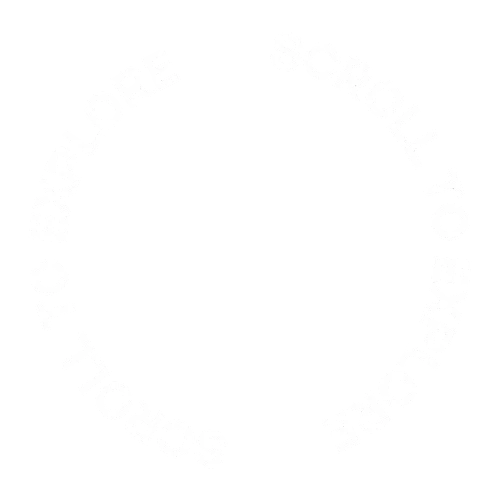
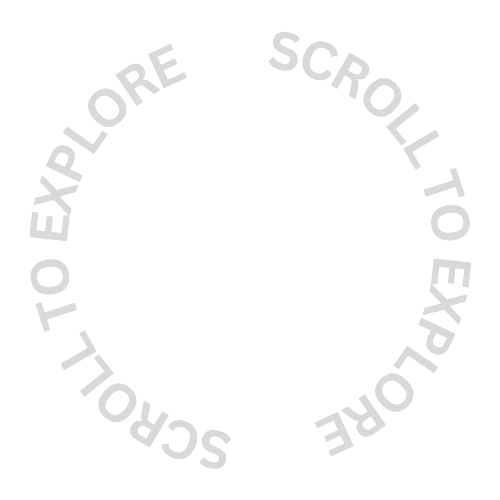
Theme toggle functionality added

diff --git a/my-portfolio/index.html b/my-portfolio/index.html
@@ -20,7 +20,7 @@
 
           <div class="logo-container">
             <a href="#about">
-              <img src="/images/logo.webp" alt="Logo name Vishal Verma" width="100%" height="auto">
+              <img id="logo-img" src="/images/logo.webp" alt="Logo name Vishal Verma" width="100%" height="auto">
             </a>
           </div>
 
@@ -36,7 +36,7 @@
 
           <div class="logo-container">
             <a href="#about">
-              <img src="/images/logo.webp" alt="Logo name Vishal Verma" width="100%" height="auto">
+              <img id="logo-img" src="/images/logo.webp" alt="Logo name Vishal Verma" width="100%" height="auto">
             </a>
           </div>
 
@@ -74,7 +74,7 @@
                 <img src="/images/hero-ribbon.webp" alt="Hero background images" width="100%" height="auto">
               </div>
               <div class="hero-bg-flower">
-                <img src="/images/hero-flower.webp" alt="Hero background images" width="100%" height="auto">
+                <img id="bg-flower" src="/images/hero-flower.webp" alt="Hero background images" width="100%" height="auto">
               </div>
               <div class="hero-bg-ribbon-d">
                 <img src="/images/hero-ribbon-d.webp" alt="Hero background images" width="100%" height="auto">
@@ -101,8 +101,12 @@
 
       <!-- theme toggler  -->
           <div class="theme-toggle-container flex-column">
-            <div class="sun"></div>
-            <div class="moon"></div>
+            <div class="sun">
+              <img src="/images/sun.svg" alt="Sun" width="100%" height="auto">
+            </div>
+            <div class="moon">
+              <img src="/images/moon.svg" alt="Moon" width="100%" height="auto">
+            </div>
             <div class="ball"></div>
           </div>
 
@@ -111,7 +115,7 @@
             <img class="scroll-img" src="/images/scroll-down-circle.webp" alt="Scroll to explore in a circle">
             <div class="circle">
               <div class="down-arrow-div">
-              <img src="/images/down-arrow.svg" alt="down arrow" width="100%" height="auto">
+              <img id="down-arrow" src="/images/down-arrow.svg" alt="down arrow" width="100%" height="auto">
             </div>
               <div class="inner-circle"></div>
             </div> 
@@ -183,7 +187,7 @@
                 <h3>GSAP</h3>
               </div>
               <div class="logos flex-direction-col-vc">
-                <img src="/images/github-icon.svg" alt="github logo" width="90%" height="auto">
+                <img class="github-icon" src="/images/github-icon.svg" alt="github logo" width="90%" height="auto">
                 <h3>GitHub</h3>
               </div>
               <div class="logos flex-direction-col-vc">

diff --git a/my-portfolio/src/otherAnimation.js b/my-portfolio/src/otherAnimation.js
@@ -28,17 +28,33 @@ export const otherAnimation = ()=>{
             scrub: true,
         }
     });
-    
 
-    // gsap.to(".navbar",{
-    //     backgroundColor: "transparent",
-    //     y: -100, 
-    //     opacity: 0,
-    //     duration: 0.5,
-    //     scrollTrigger:{
-    //         trigger:".collaborate-section",
+    //theme toggler
+    let toggle = 0;
+    document.querySelector(".theme-toggle-container").addEventListener("click", ()=>{
+        toggle == 0 ? toggle = 1 : toggle = 0;
 
-    // })
+        if(toggle == 0){
+            document.documentElement.style.setProperty("--primaryColor", "#F5F5F5");
+            document.documentElement.style.setProperty("--textColor", "#071e22");
+
+            document.querySelector("#logo-img").setAttribute("src", "/images/theme-logo.webp");
+            document.querySelector("#bg-flower").setAttribute("src", "/images/theme-flower.webp");
+            document.querySelector(".scroll-img").setAttribute("src", "/images/theme-circle.webp");
+            document.querySelector("#down-arrow").setAttribute("src", "/images/theme-down-arrow.svg");
+            document.querySelector(".github-icon").setAttribute("src", "/images/theme-github-icon.svg");
+        }
+        else{
+            document.documentElement.style.setProperty("--primaryColor", "#071E22");
+            document.documentElement.style.setProperty("--textColor", "#d9d9d9");
+
+            document.querySelector("#logo-img").setAttribute("src", "/images/logo.webp");
+            document.querySelector("#bg-flower").setAttribute("src", "/images/hero-flower.webp");
+            document.querySelector(".scroll-img").setAttribute("src", "/images/scroll-down-circle.webp");
+            document.querySelector("#down-arrow").setAttribute("src", "/images/down-arrow.svg");
+            document.querySelector(".github-icon").setAttribute("src", "/images/github-icon.svg");
+        }
+    });
 
     // ScrollTrigger.create({
     //     trigger: ".contact-section",

diff --git a/my-portfolio/src/style.css b/my-portfolio/src/style.css
@@ -43,28 +43,14 @@
   --textColor1: #b3d1de;
   --textColor3: #f4c095;
 
-  /* --buttonColor: #2a2c30;
-  --secondaryColor: #4b4f56;
-  --borderColor: #e3eaf0;
-  --backgroundColor: #f7f7f7;
-  --backgroundSecondary: #fefefe;
-  --textColor: #1e1f23;
-  --anchorColor: #535bf2;
-  --main-color: #535bf2;
-  --supporting-color: #ebf3fe;
-  --glow-color: hsl(186, 91%, 4%); */
+  
+  /* --glow-color: hsl(186, 91%, 4%); */
 
 }
 @media (prefers-color-scheme: light) {
   :root {
-    color: #213547;
-    background-color: #ffffff;
-  }
-  a:hover {
-    color: #747bff;
-  }
-  button {
-    background-color: #f9f9f9;
+    --primaryColor: #F5F5F5;
+    --textColor: #071E22;
   }
 }
 
@@ -519,7 +505,7 @@ main{
   left: 0;
   top: 50%;
   background-color: var(--primaryColor);
- border: 1px solid var(--mainColor);
+  border: 1px solid var(--mainColor);
   width: 2rem;
   height: 5rem;
   border-radius: 10rem;
@@ -529,6 +515,7 @@ main{
   -o-border-radius: 10rem;
   overflow: hidden;
   user-select: none;
+  cursor: pointer;
   z-index: 99;
 }
 .sun{
@@ -972,6 +959,7 @@ form{
   }
 
   & button{
+    color: var(--textColor);
     width: 50%;
     height: auto;
     padding: 1rem;
